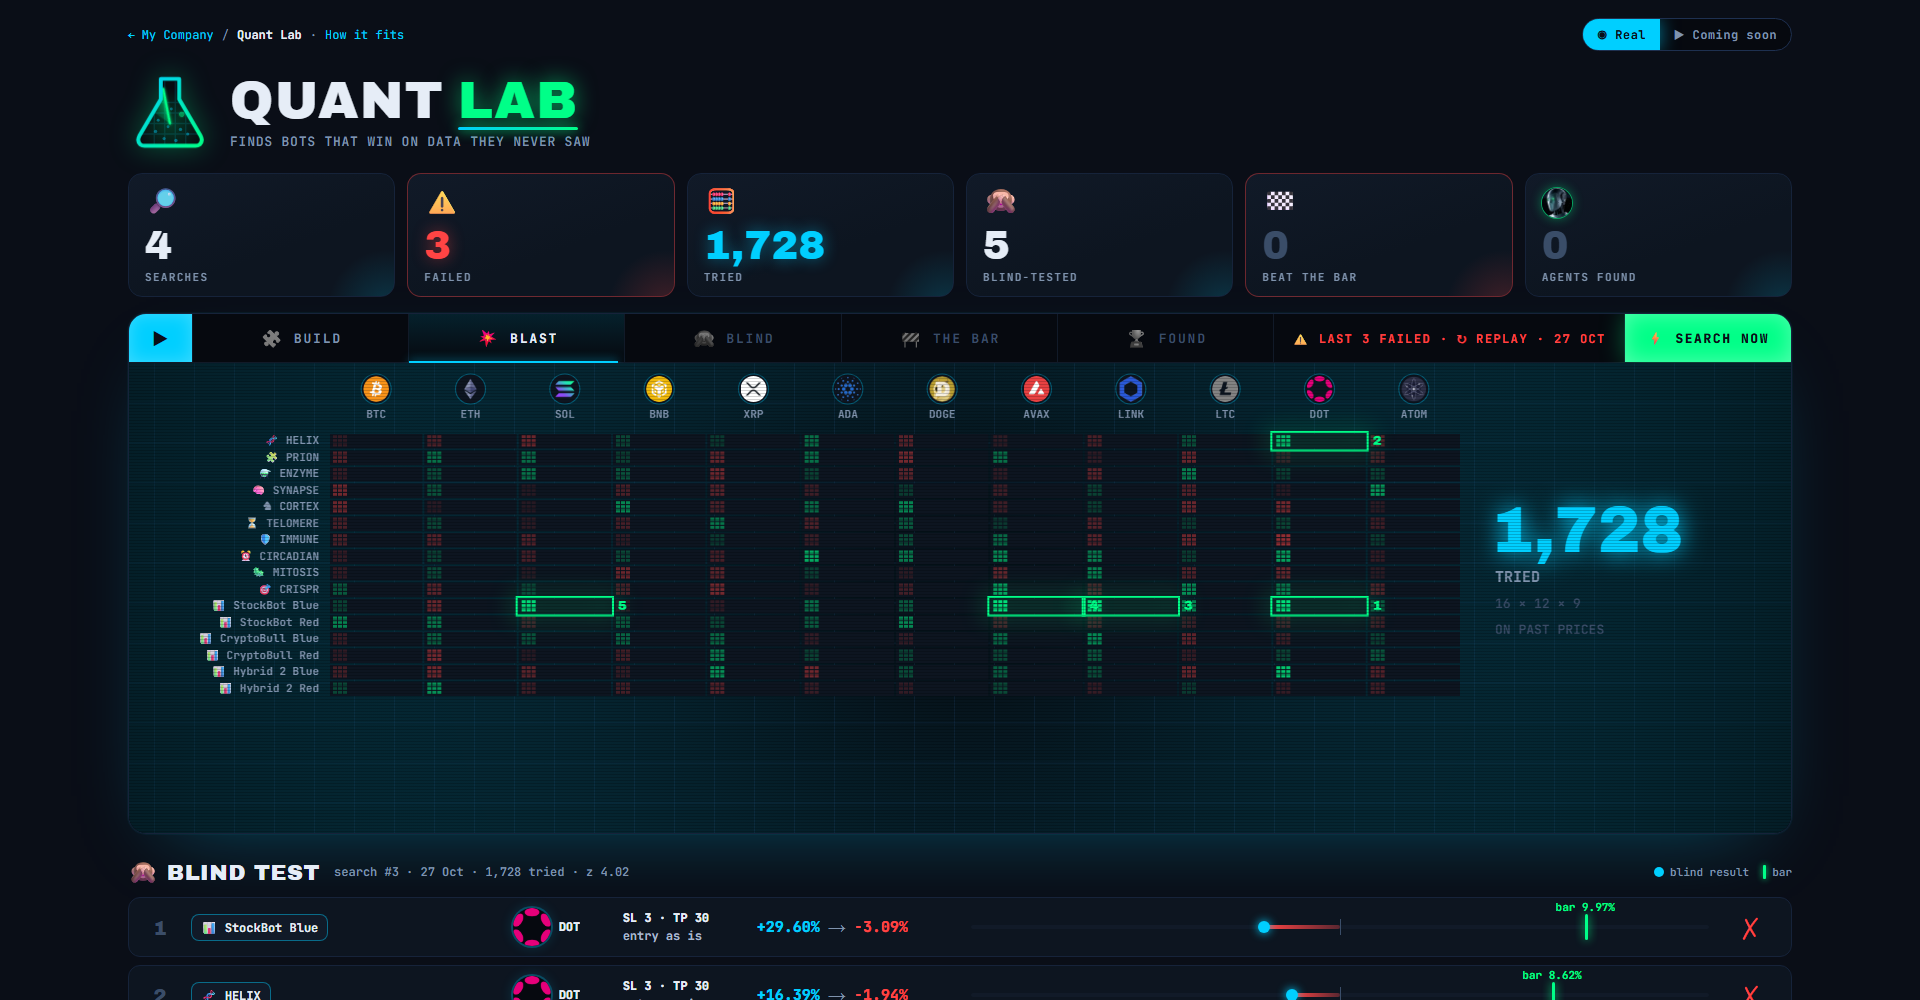
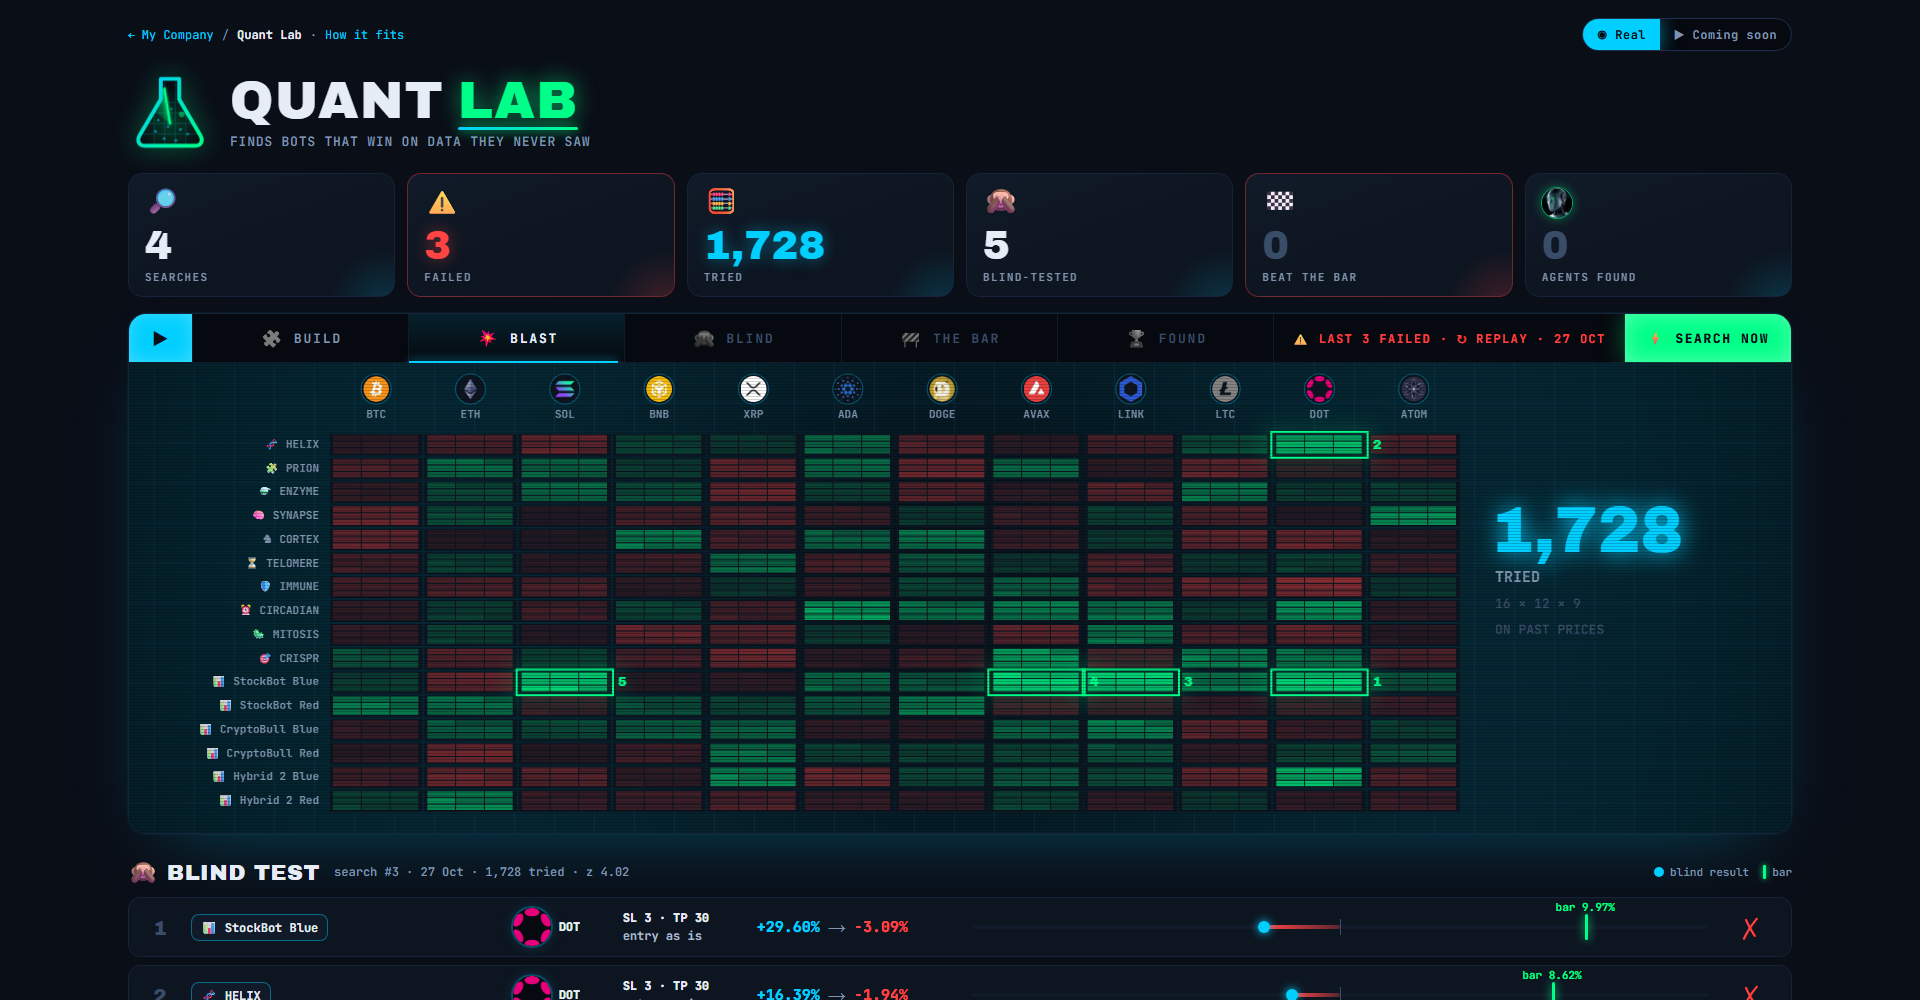
outbox/quant-lab-v2, BLAST fills the screen (the operator: "tady ten screen se mi jeste moc nelibi nevyuziva celou plochu"): the cells were capped at 16.5 px a row and left the lower third empty; a row is now a share of the screen's height, each cell a three-row block of one rectangle per setting fi
Effort: xhigh

Changed region(s): [[0.0938, 0.434, 0.7812, 0.837]]

diff --git a/outbox/quant-lab-v2/ql.js b/outbox/quant-lab-v2/ql.js
@@ -366,22 +366,27 @@
     cells = { mode: M.mode, v: v, hot: hot }; return cells;
   }
   function drawBlast(p, t) {
-    var cl = cellsFor(), n = M.setups.length, m = M.markets.length, x0 = 200, y0 = 70, mw = W - x0 - 330, ch = Math.min(16.5, (H - y0 - 16) / n), cw = mw / m;
+    // the grid fills the screen's height and runs to the counter (the operator, 2026-10-30: "nevyuziva celou plochu")
+    var cl = cellsFor(), n = M.setups.length, m = M.markets.length, x0 = 200, y0 = 70, mw = W - x0 - 330, ch = (H - y0 - 20) / n, cw = mw / m, fs = ch >= 24 ? 13 : 11;
     M.markets.forEach(function (s, j) { coin(s, x0 + j * cw + cw / 2, 26, 13, true); });
     // live: the cells follow the feed's done_jobs, evenly, as a running search does; a replay eases through it
     var live = LAB === 'live', fd = live ? feed(p) : null, prog = live ? fd.done_jobs / fd.total_jobs : ease(seg(p, 0, 0.82)), hotAt = live ? 0.92 : 0.84;
-    var total = n * m, lit = Math.floor(prog * total), k = M.settings, sq = Math.min(4, (cw - 10) / Math.ceil(k / 3) - 1);
+    var total = n * m, lit = Math.floor(prog * total), k = M.settings, sw = (cw - 8) / Math.ceil(k / 3), sh = (ch - 4) / 3;   // a setting is one rectangle of a three-row block filling the cell
     for (var i = 0; i < n; i++) {
       var s = M.setups[i];
-      ctx.font = '700 11px ' + MONO; var lab = setupText(s); if (lab.length > 22) lab = lab.slice(0, 21) + '…';
-      txt(lab, x0 - 10, y0 + i * ch + ch / 2, '700 11px ' + MONO, i * m < lit ? C.dim : C.dim3, 'right');
+      var lab = setupText(s); if (lab.length > 22) lab = lab.slice(0, 21) + '…';
+      txt(lab, x0 - 10, y0 + i * ch + ch / 2, '700 ' + fs + 'px ' + MONO, i * m < lit ? C.dim : C.dim3, 'right');
       for (var j = 0; j < m; j++) {
         var idx = i * m + j, x = x0 + j * cw, y = y0 + i * ch;
         ctx.fillStyle = C.navy; ctx.fillRect(x + 1, y + 1, cw - 2, ch - 2);
         if (idx < lit) {
           var v = cl.v[i][j], a = Math.min(0.85, 0.15 + Math.abs(v) / 30);
           ctx.fillStyle = v >= 0 ? 'rgba(0, 255, 136, ' + a + ')' : 'rgba(255, 68, 68, ' + (a * 0.7) + ')';
-          for (var q = 0; q < k; q++) ctx.fillRect(x + 4 + Math.floor(q / 3) * (sq + 1), y + 2 + (q % 3) * ((ch - 4) / 3), sq, (ch - 4) / 3 - 1);
+          for (var q = 0; q < k; q++) {
+            ctx.globalAlpha = 0.72 + 0.28 * (((i * 31 + j * 17 + q * 7) % 10) / 10);   // the settings differ a little, as their results do
+            ctx.fillRect(x + 4 + Math.floor(q / 3) * sw, y + 2 + (q % 3) * sh, sw - 1, sh - 1);
+          }
+          ctx.globalAlpha = 1;
         }
         if (idx === lit) { ctx.fillStyle = '#ffffff'; ctx.shadowColor = C.cyan; ctx.shadowBlur = 24; ctx.fillRect(x, y, cw, ch); ctx.shadowBlur = 0; if (Math.random() < 0.5) burst(x + cw / 2, y + ch / 2, C.cyan, 2, 4); }
       }
